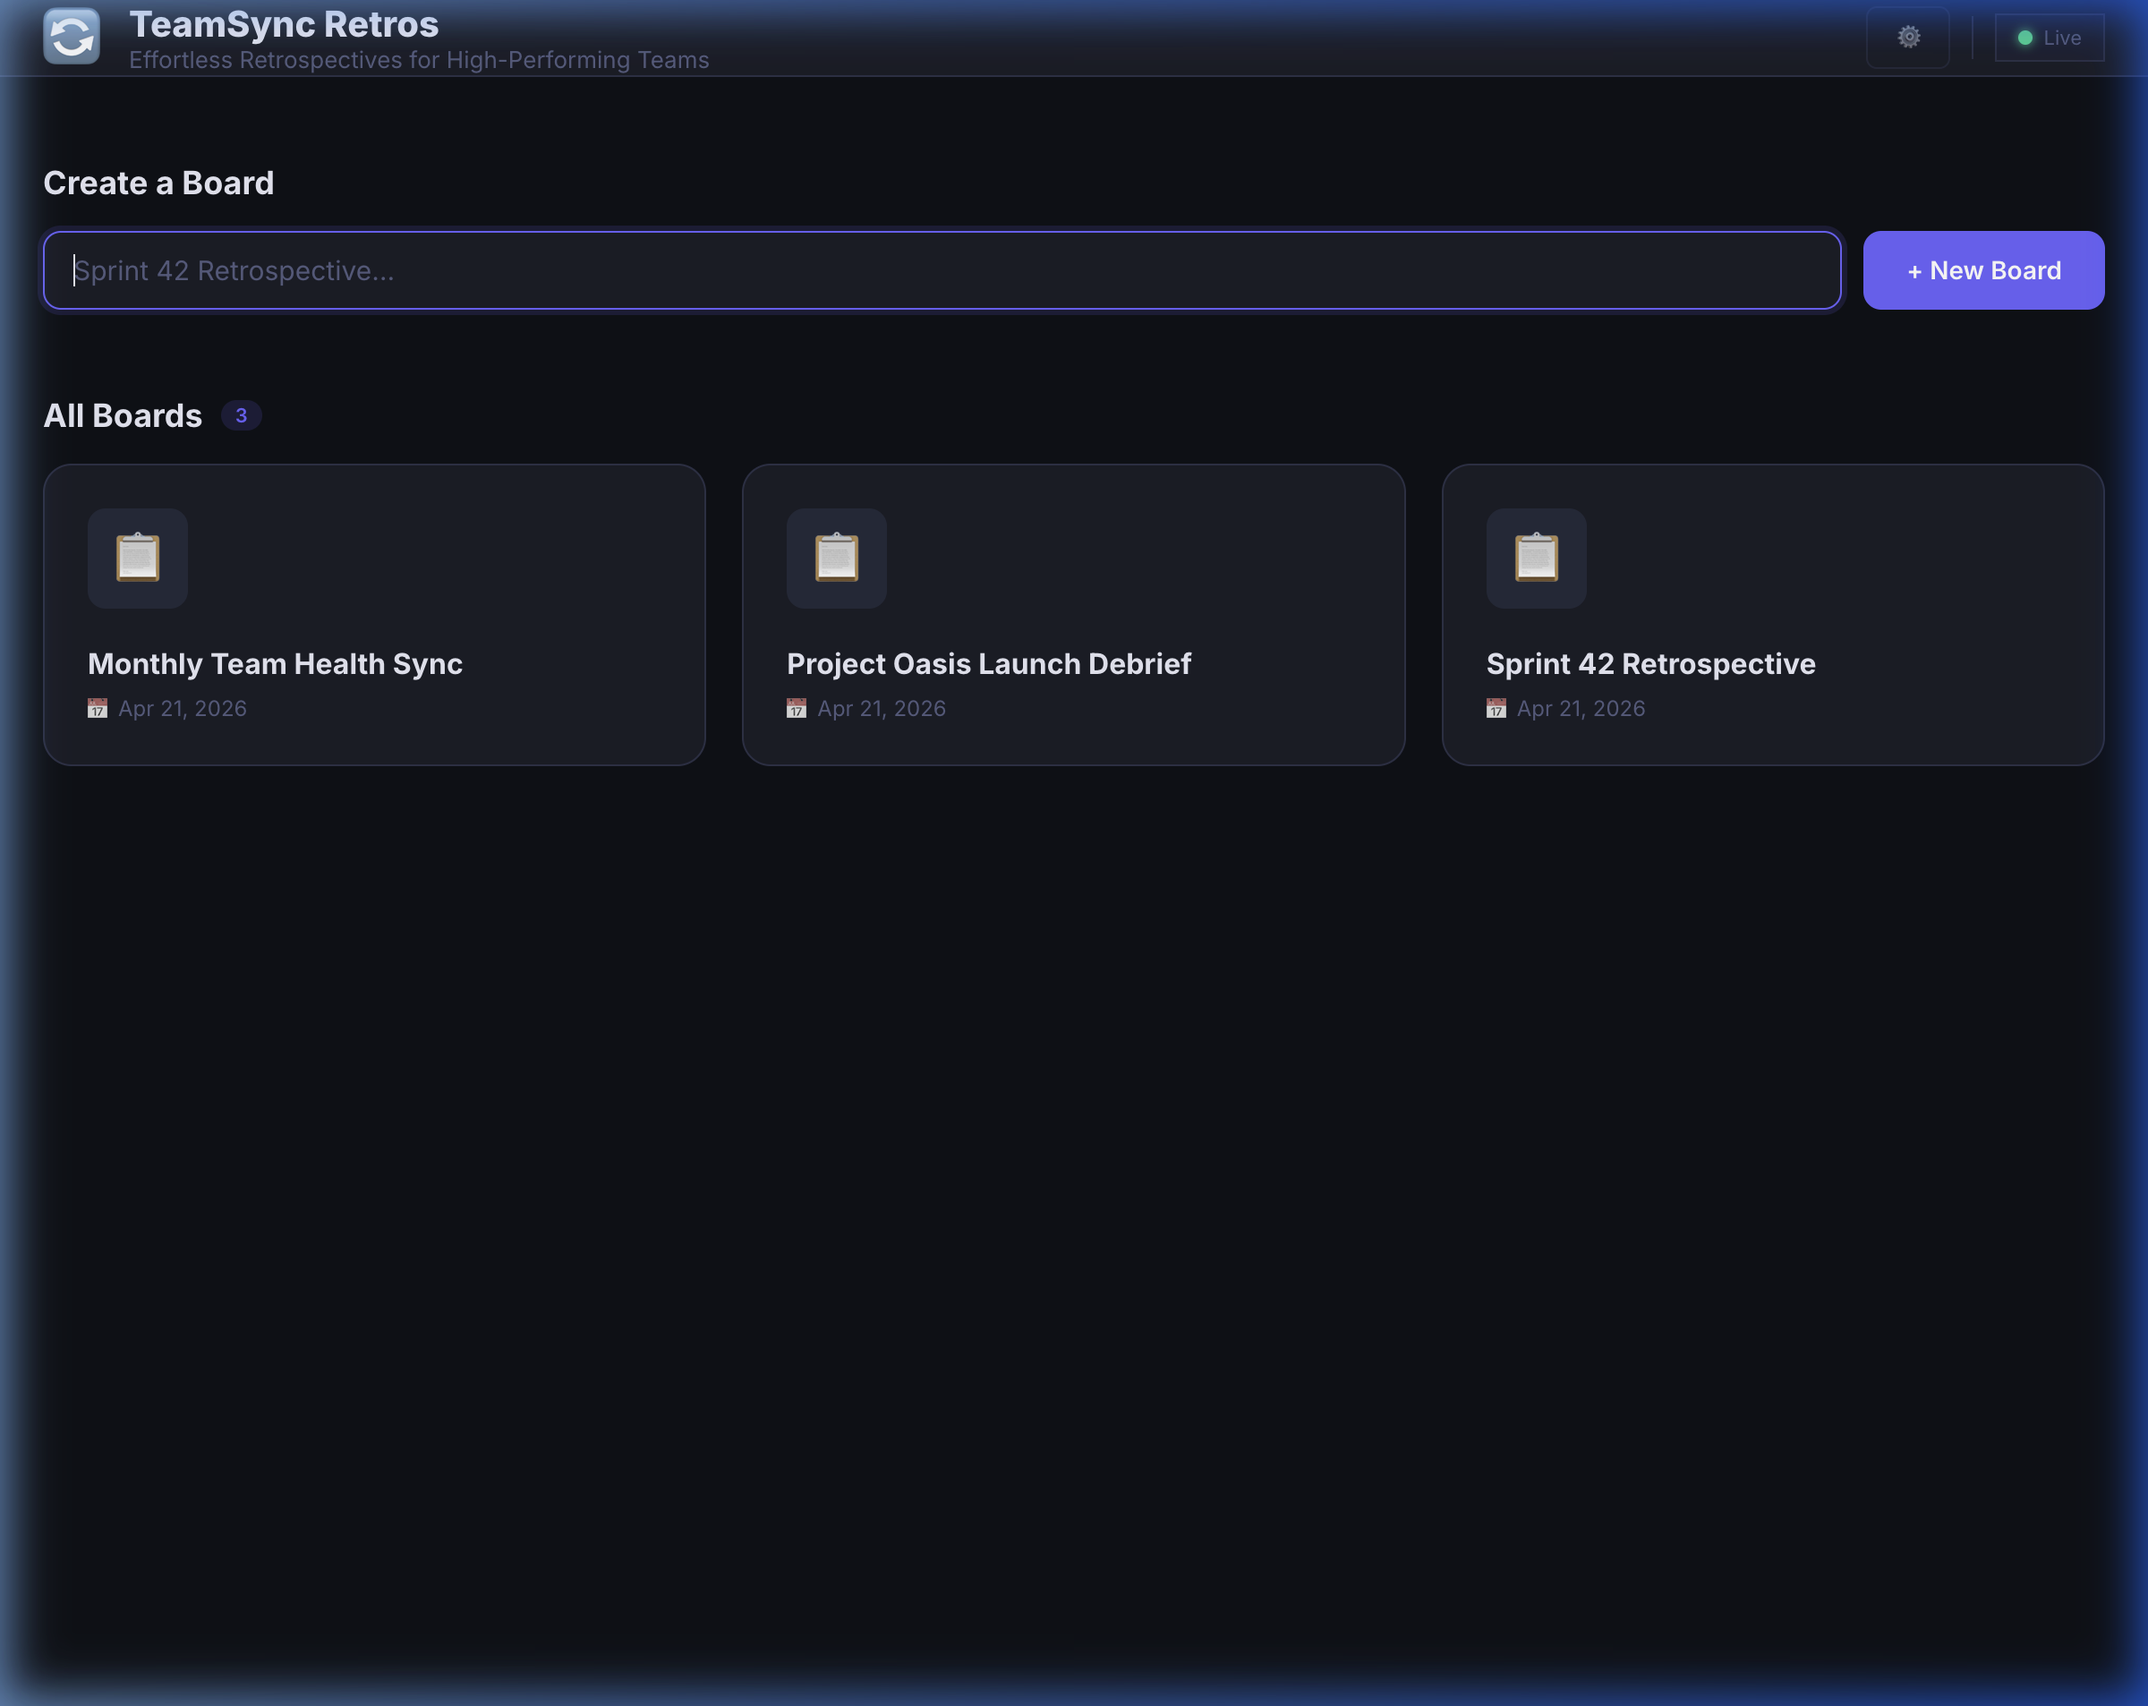
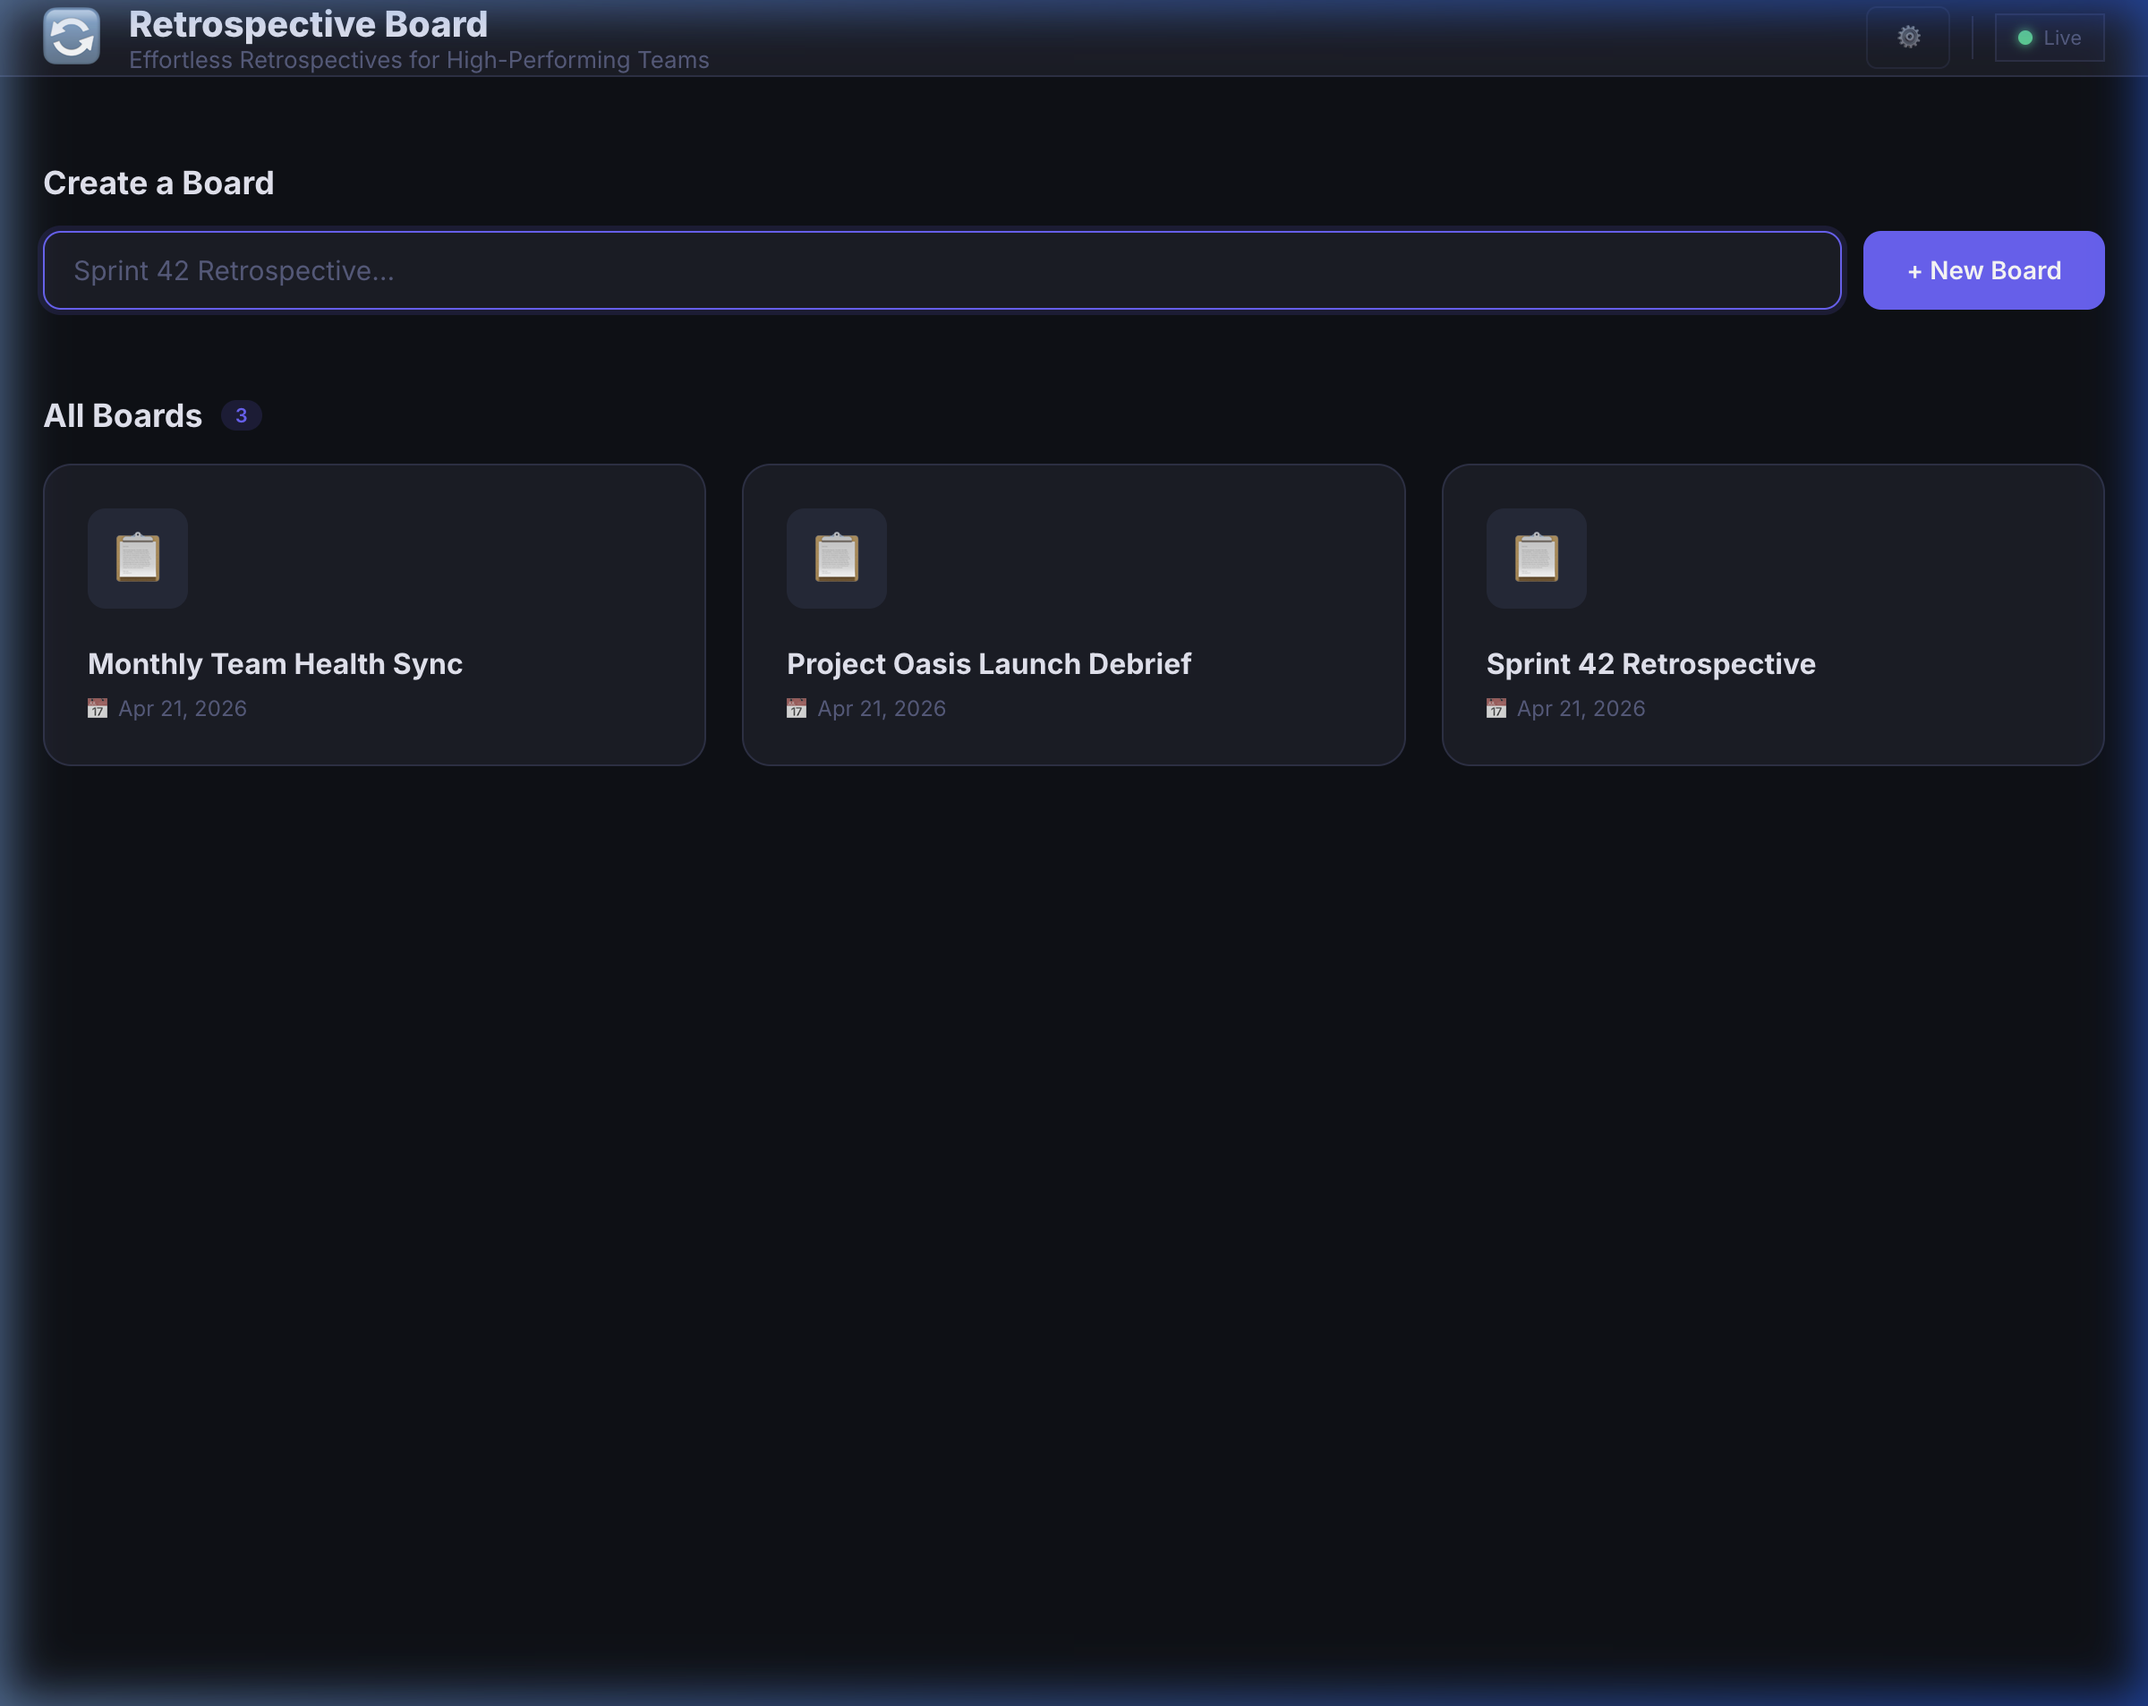
docs: align branding name with repository (Retrospective Board)

diff --git a/README.md b/README.md
@@ -1,4 +1,4 @@
-# TeamSync Retros 🔄
+# Retrospective Board 🔄
 
 A **self-hosted, real-time retrospective board** for agile teams. Open-source, MIT-licensed, deployable locally or as a Docker image — no account required.
 
